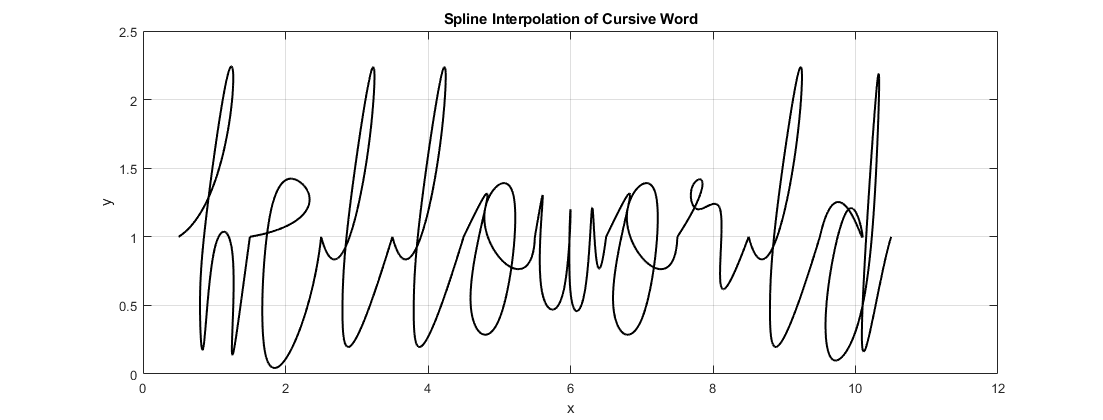
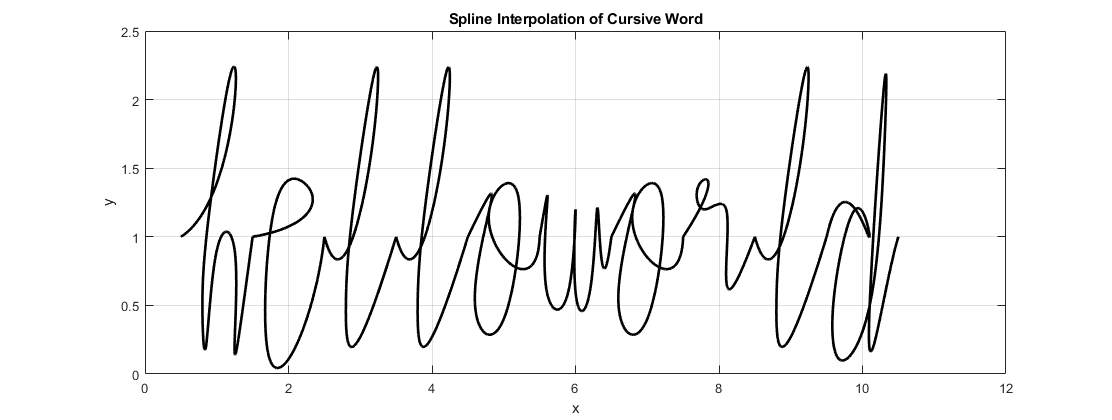
tidied up, changed line width

diff --git a/plotWord.m b/plotWord.m
@@ -1,9 +1,10 @@
 function plotWord(word)
-%initializing final coords
+
+% initializing final coords
 x_word = [];
 y_word = [];
 
-%creating alphabet_coordinates
+% creating alphabet_coordinates
 x_a = [0.5 0.75 1 1.3 1 0.5 1 1.3 1.3 1.5];
 y_a = [1 1.5 1.5 1 1.5 0.5 0.3 1 0.4 1];
 
@@ -36,8 +37,6 @@ y_j = [1 1 1.2 -0.5 -0.8 -0.5 0 1];
 
 x_k = [0.5 1.2 1.2 0.9 0.8 0.85 1 1.25 1.15 1 1.25 1.5];
 y_k = [1 1.8 2.2 1.2 0.5 0.2 0.9 0.9 0.7 0.6 0.2 1];
-
-
 
 x_l = [0.5 0.9 1.2 1.2 0.9 0.8 0.9 1.5];
 y_l = [1 1 1.8 2.2 1.2 0.5 0.2 1];
@@ -84,8 +83,7 @@ y_y = [1 1.1 0.6 0.7 1.2 -0.2 -0.4 0.1 0.4 1];
 x_z = [0.5 1.05 0.9 0.9 1.1 0.7 0.7 1 1.5];
 y_z = [1 1.1 0.6 0.7 0 -0.5 0.1 0.4 1];
 
-
-%initialise a cell array for alphabet_coordinates
+% initialise a cell array for alphabet_coordinates
 alphabet_coordinates = cell(1, 26);
 
 x = {x_a, x_b, x_c, x_d, x_e, x_f, x_g, x_h, x_i, x_j, x_k, x_l, x_m, ...
@@ -97,49 +95,49 @@ for letter = 1:26
     alphabet_coordinates{letter} = {x{letter}, y{letter}};
 end
 
-%convert word to lower case
+% convert word to lower case
 word = lower(word);
 
-%define letter spacing
+% define letter spacing
 spacing = 1;
 
-    %iterating through each letter
+    % iterating through each letter
     for i = 1:length(word)
         letter = word(i);
 
-        %check if all characters in the word are letters
+        % check if all characters in the word are letters
         if (~isletter(letter) || ~ischar(letter))
             error('The word contains characters that are not letters.')
         end
 
-        %double(letter) converts the letter to ASCII
-        %lowercase a-z have decimal values from 97-122
-        %subtracting 96 so a corresponds to 1 and so on
+        % double(letter) converts the letter to ASCII
+        % lowercase a-z have decimal values from 97-122
+        % subtracting 96 so a corresponds to 1 and so on
         index = double(letter) - 96;
 
-        %extract letter coordinates
+        % extract letter coordinates
         letter_coords = alphabet_coordinates{index};
         x = letter_coords{1};
         y = letter_coords{2};
 
-        %adjust x coords to account for letter spacing
+        % adjust x coords to account for letter spacing
         x = x + (i-1)*spacing;
 
-        %interpolation
+        % interpolation
         n = length(x);
         t = 0:n-1;
         tt = 0:0.01:n-1;
         xx = spline(t, x, tt);
         yy = spline(t, y, tt);
 
-        %add coords to the final word
+        % add coords to the final word
         x_word = [x_word, xx];
         y_word = [y_word, yy];
     end
 
-    %plot
-    figure(1)
-    plot(x_word, y_word, 'k', 'LineWidth', 1.5) % plot spline
+    % plot
+    figure(2)
+    plot(x_word, y_word, 'k', 'LineWidth', 2) % plot spline
     grid on
     title('Spline Interpolation of Cursive Word')
     xlabel('x')
